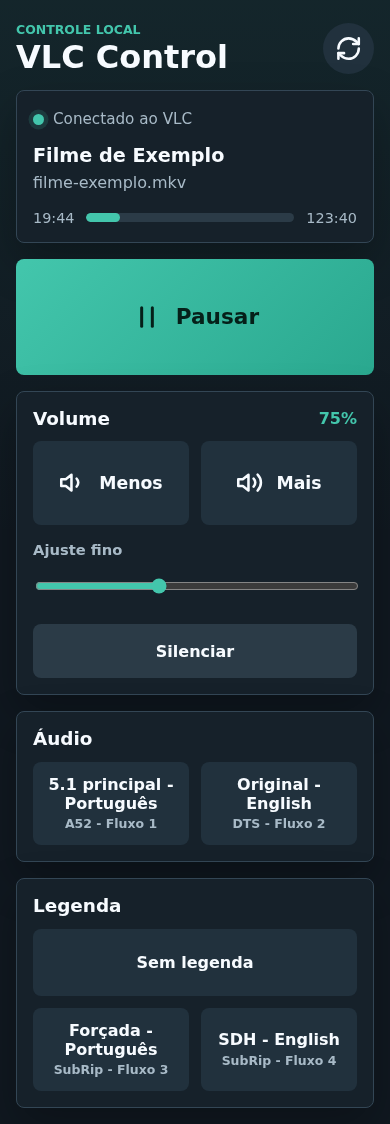
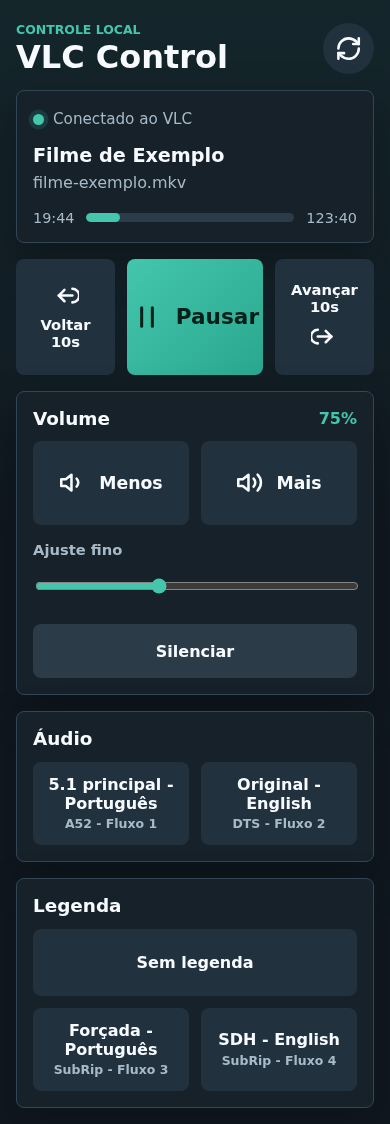
Add 10 second seek controls

Changed region(s): [[0.0308, 0.218, 0.3385, 0.3425], [0.6462, 0.218, 0.9846, 0.3425]]

diff --git a/test/vlcClient.test.js b/test/vlcClient.test.js
@@ -1,6 +1,6 @@
 import assert from "node:assert/strict";
 import test from "node:test";
-import { normalizeStatus } from "../src/vlcClient.js";
+import { normalizeStatus, sendControl } from "../src/vlcClient.js";
 
 test("extracts localized VLC audio and subtitle tracks with stream ids", () => {
   const status = normalizeStatus({
@@ -74,4 +74,41 @@ test("does not create fake tracks when VLC omits stream data", () => {
 
   assert.deepEqual(status.tracks.audio, []);
   assert.deepEqual(status.tracks.subtitles, []);
+});
+
+test("maps 10 second seek controls to VLC seek commands", async (t) => {
+  const originalFetch = globalThis.fetch;
+  const requests = [];
+
+  globalThis.fetch = async (url) => {
+    requests.push(new URL(String(url)));
+    return {
+      ok: true,
+      status: 200,
+      async json() {
+        return {
+          state: "playing",
+          volume: 128,
+          information: {
+            category: {}
+          }
+        };
+      }
+    };
+  };
+
+  t.after(() => {
+    globalThis.fetch = originalFetch;
+  });
+
+  await sendControl("seekBackward");
+  await sendControl("seekForward");
+
+  assert.deepEqual(
+    requests.map((url) => [url.searchParams.get("command"), url.searchParams.get("val")]),
+    [
+      ["seek", "-10"],
+      ["seek", "+10"]
+    ]
+  );
 });

diff --git a/public/styles/app.css b/public/styles/app.css
@@ -158,6 +158,8 @@ h1 {
 
 .primary-controls {
   display: grid;
+  grid-template-columns: minmax(0, 1fr) minmax(8.5rem, 1.35fr) minmax(0, 1fr);
+  gap: 0.75rem;
 }
 
 .control-button,
@@ -193,6 +195,17 @@ h1 {
   background: linear-gradient(135deg, var(--accent), var(--accent-strong));
   color: #052019;
   font-size: 1.35rem;
+}
+
+.seek-button {
+  min-height: 7.25rem;
+  padding: 0.75rem 0.55rem;
+  flex-direction: column;
+  gap: 0.45rem;
+  background: var(--surface-strong);
+  color: var(--text);
+  font-size: 0.92rem;
+  line-height: 1.15;
 }
 
 .secondary {

diff --git a/public/index.html b/public/index.html
@@ -37,9 +37,17 @@
       </section>
 
       <section class="primary-controls" aria-label="Controles de reproducao">
+        <button class="control-button seek-button" type="button" data-action="seekBackward" aria-label="Voltar 10 segundos">
+          <span class="icon" data-icon="seek-back"></span>
+          <span>Voltar 10s</span>
+        </button>
         <button class="control-button play-button" type="button" data-action="toggle">
           <span class="icon" data-icon="play-pause"></span>
           <span data-play-label>Pausar / reproduzir</span>
+        </button>
+        <button class="control-button seek-button" type="button" data-action="seekForward" aria-label="Avançar 10 segundos">
+          <span>Avançar 10s</span>
+          <span class="icon" data-icon="seek-forward"></span>
         </button>
       </section>
 

diff --git a/public/scripts/app.js b/public/scripts/app.js
@@ -25,6 +25,8 @@ const icons = {
   "play-pause": '<svg viewBox="0 0 24 24"><path d="m8 5 11 7-11 7V5Z"></path><path d="M4 5v14"></path></svg>',
   pause: '<svg viewBox="0 0 24 24"><path d="M8 5v14"></path><path d="M16 5v14"></path></svg>',
   play: '<svg viewBox="0 0 24 24"><path d="m6 3 14 9-14 9V3Z"></path></svg>',
+  "seek-back": '<svg viewBox="0 0 24 24"><path d="m11 17-5-5 5-5"></path><path d="M18 18a6 6 0 1 0 0-12"></path><path d="M6 12h12"></path></svg>',
+  "seek-forward": '<svg viewBox="0 0 24 24"><path d="m13 7 5 5-5 5"></path><path d="M6 6a6 6 0 1 0 0 12"></path><path d="M6 12h12"></path></svg>',
   "volume-down": '<svg viewBox="0 0 24 24"><path d="M11 5 6 9H2v6h4l5 4V5Z"></path><path d="M15.54 8.46a5 5 0 0 1 0 7.07"></path></svg>',
   "volume-up": '<svg viewBox="0 0 24 24"><path d="M11 5 6 9H2v6h4l5 4V5Z"></path><path d="M15.54 8.46a5 5 0 0 1 0 7.07"></path><path d="M19.07 4.93a10 10 0 0 1 0 14.14"></path></svg>'
 };

diff --git a/src/vlcClient.js b/src/vlcClient.js
@@ -77,6 +77,8 @@ export async function sendControl(action, value) {
     volumeUp: ["volume", { val: `+${config.volumeStep}` }],
     volumeDown: ["volume", { val: `-${config.volumeStep}` }],
     mute: ["volume", { val: "0" }],
+    seekBackward: ["seek", { val: "-10" }],
+    seekForward: ["seek", { val: "+10" }],
     subtitleOff: ["subtitle_track", { val: "-1" }]
   };
 

diff --git a/README.md b/README.md
@@ -7,6 +7,7 @@ Interface web responsiva para controlar o VLC pela rede local. O app roda em Nod
 ## Recursos
 
 - Pausar e reproduzir o video atual.
+- Avancar e voltar 10 segundos.
 - Aumentar, diminuir, silenciar e ajustar volume ate 200%.
 - Selecionar faixas de audio e legendas.
 - Acessar pelo celular usando o endereco da rede local.